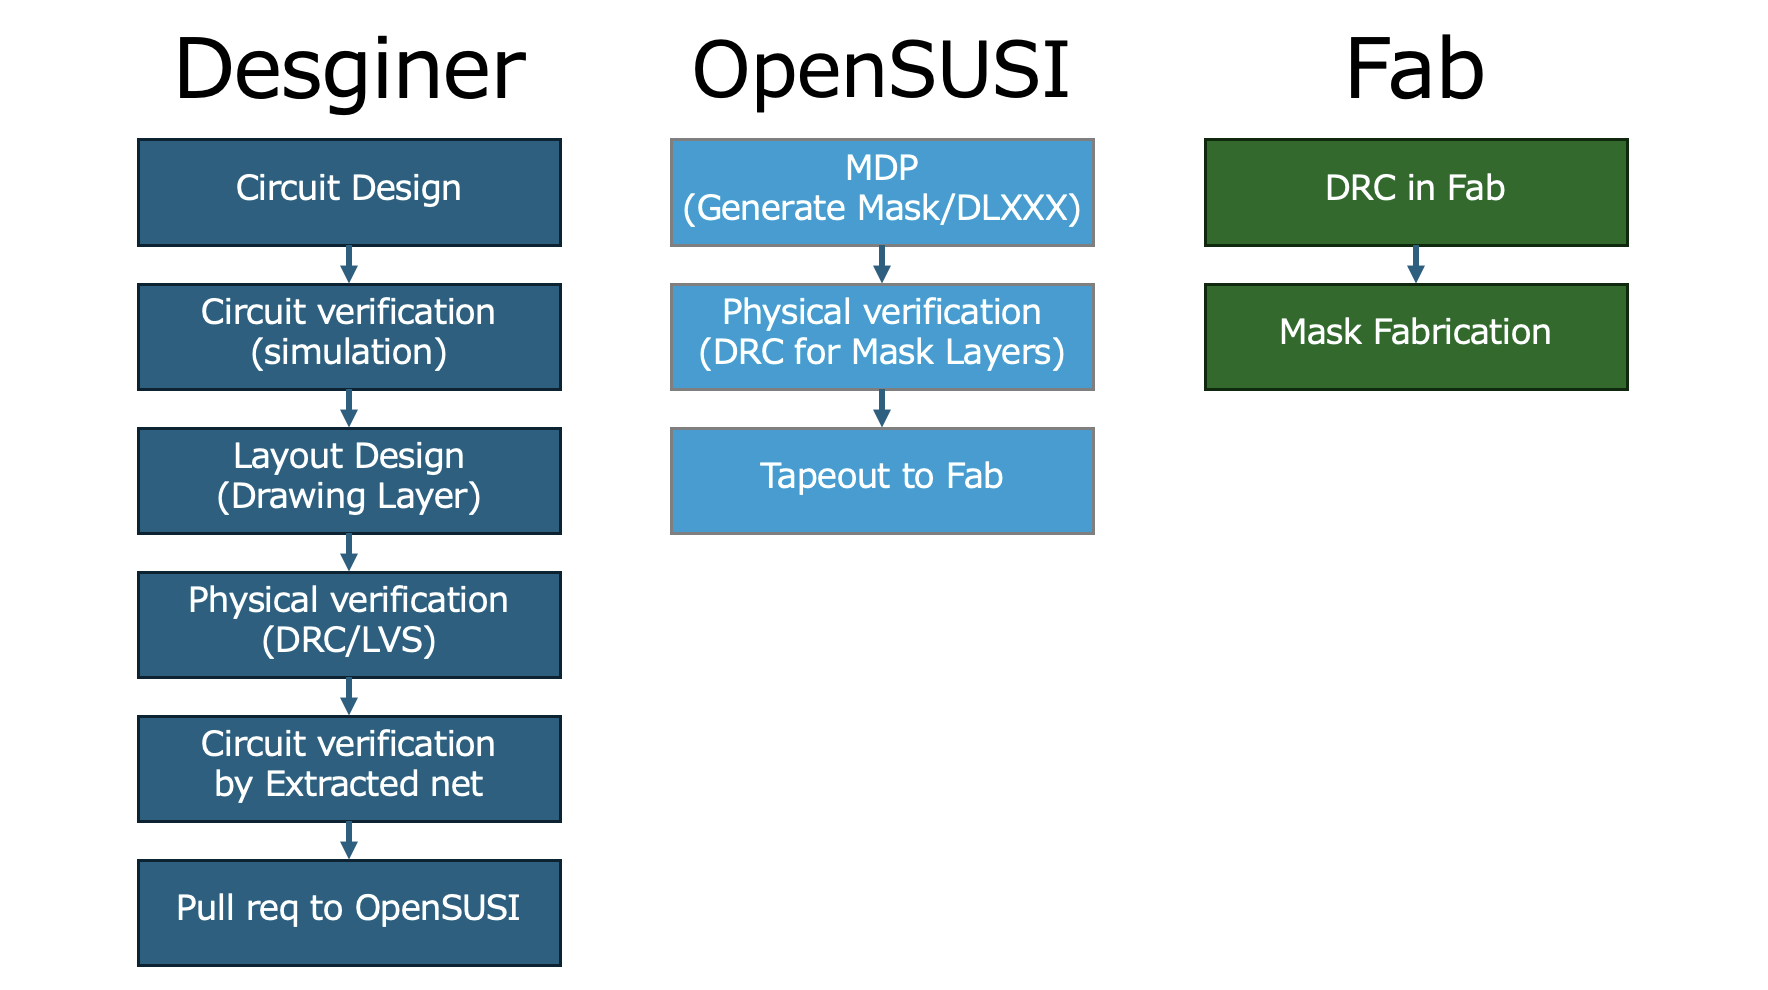
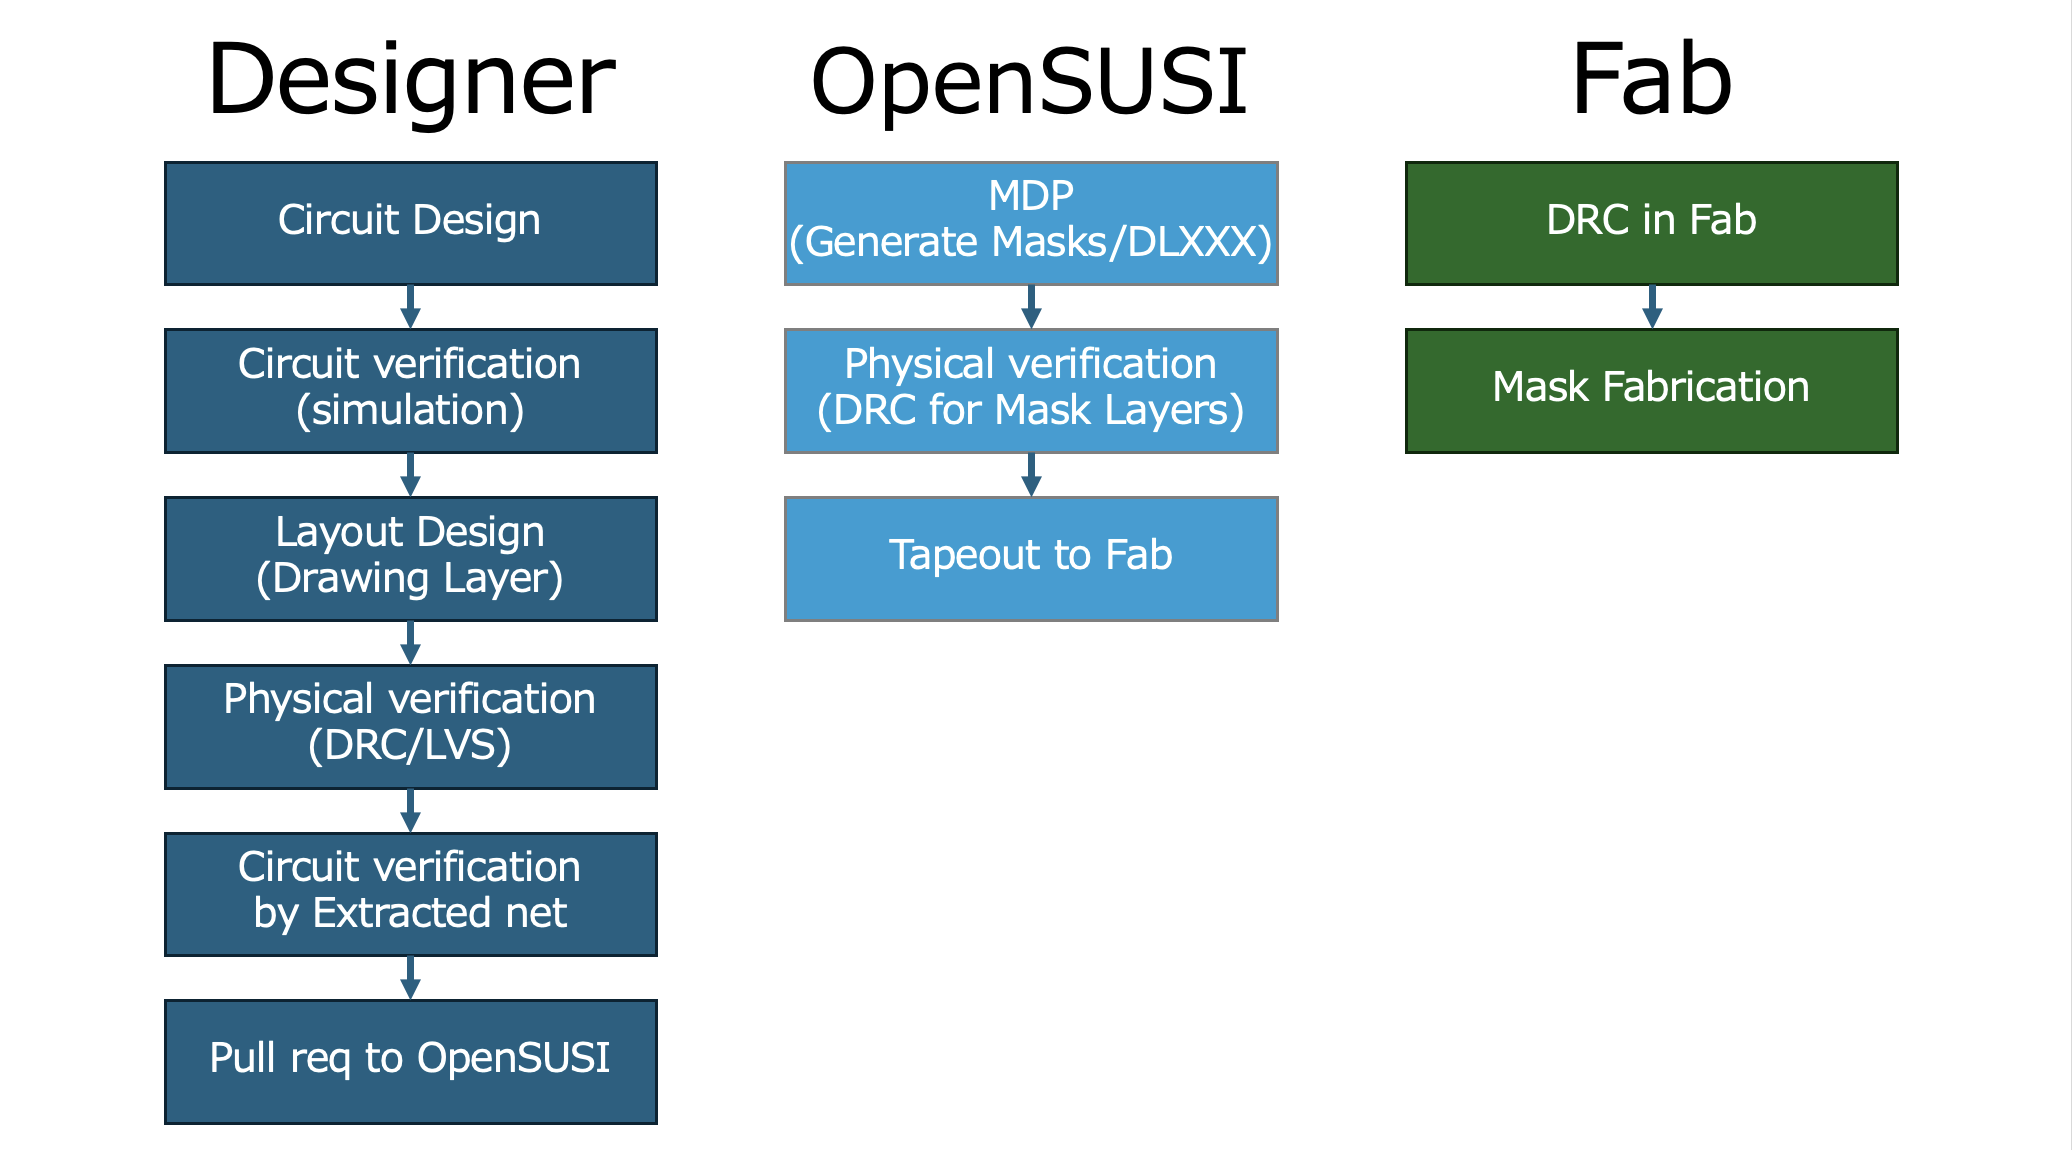
20251219: Python script for IP62_tp_TR-1um conversion

diff --git a/Tools/IP62_to_TR-1um.py b/Tools/IP62_to_TR-1um.py
@@ -1,0 +1,179 @@
+#! /usr/bin/env python3
+# ----- ------ ----- ----- ------ ----- ----- ------ ----- 
+# TR-1um DRC v0.001 
+# Original version was made by jun1okamura from TokaiRika's document 
+# LICENSE: Apache License Version 2.0, January 2004,
+#          http://www.apache.org/licenses/
+# ----- ------ ----- 
+#
+#  IP62_to_TR-1um.py INPUT_IP62_GDS OUTPUT_TR-1um_GDS 
+#
+import sys
+import klayout.db as db
+#
+ly    = db.Layout()  
+args  = sys.argv
+#
+ifile = args[1]
+ofile = args[2]
+#
+ly.read(ifile)
+# ----- ------ ----- ----- ------ ----- ----- ------ ----- 
+# IP62
+PSUB = ly.layer(140, 0)     
+NW   = ly.layer( 36, 0)     
+HVNW = ly.layer(141, 0)     
+L    = ly.layer(  3, 0)     
+NF   = ly.layer( 25, 0)     # L1
+PF   = ly.layer( 26, 0)     # L2
+HPBE = ly.layer(144, 0)     # L3
+HNBE = ly.layer(145, 0)     # L4
+PBE  = ly.layer(146, 0)     # L3
+NBE  = ly.layer(147, 0)     # L4
+SG   = ly.layer(  8, 0)     
+PM   = ly.layer( 35, 0)     # L5
+NM   = ly.layer(  7, 0)     # L6
+PSD  = ly.layer(  9, 0)     # L7
+NSD  = ly.layer( 28, 0)     # L8
+R    = ly.layer( 12, 0)     # L9
+CL   = ly.layer(143, 0)     # LA
+HPM  = ly.layer( 33, 0)     
+# ----- ------ ----- ----- ------ ----- ----- ------ ----- 
+# DLXXX 
+DPBG  = ly.layer(116, 0)
+DNBG  = ly.layer(117, 0)
+DRBG  = ly.layer(118, 0)
+DCBG  = ly.layer(119, 0)
+DLWLMP= ly.layer(150, 0)
+DLWLMN= ly.layer(151, 0)
+DLWLRR= ly.layer(154, 0)
+DLMP  = ly.layer(157, 0)
+DLMN  = ly.layer(158, 0)
+DLRR  = ly.layer(162, 0)
+DLRS  = ly.layer(165, 0)
+DLCSIO= ly.layer(166, 0)
+DLDP  = ly.layer(167, 0)
+DLDN  = ly.layer(168, 0)
+DLMPE = ly.layer(169, 0)
+DLMNE = ly.layer(170, 0)
+DLBGMP= ly.layer(177, 0)
+DLBGMN= ly.layer(178, 0)
+DLBGRR= ly.layer(182, 0)
+# ----- ------ ----- ----- ------ ----- ----- ------ ----- 
+# Drawing Layers
+#
+AP    = ly.layer(  3, 1)
+AN    = ly.layer(  3, 2)
+AR    = ly.layer(  3, 3)
+AC    = ly.layer(  3, 4)
+#
+PG    = ly.layer(  8, 1)
+PR    = ly.layer(  8, 2)
+#
+# ----- ------ ----- ----- ------ ----- ----- ------ ----- 
+def convert_drawing( cell : db.Cell ) :
+    #
+    NWCS = (db.Region(cell.shapes(PSUB)).merged() & 
+            db.Region(cell.shapes(NW  )).merged().interacting(db.Region(cell.shapes(CL)).merged()))
+    NWMP = (db.Region(cell.shapes(PSUB)).merged() & 
+            db.Region(cell.shapes(NW  )).merged()).not_interacting(db.Region(cell.shapes(CL)).merged())
+    NWRR = (db.Region(cell.shapes(PSUB)).merged() & db.Region(cell.shapes(HVNW)).merged())
+    PWMN = (db.Region(cell.bbox()) - db.Region(cell.shapes(PSUB)).merged())
+    #
+    LG   = (db.Region(cell.shapes(L  )).merged()).interacting(db.Region(cell.shapes(SG)).merged())
+    LX   = (db.Region(cell.shapes(L  )).merged()).not_interacting(db.Region(cell.shapes(SG)).merged())
+    # 
+    P1   = (db.Region(cell.shapes(SG )).merged() - db.Region(cell.shapes(DLRS)).merged())
+    P2   = (db.Region(cell.shapes(SG )).merged() & db.Region(cell.shapes(DLRS)).merged())
+    #
+    L1   = (db.Region(cell.shapes(NF )).merged())
+    L2   = (db.Region(cell.shapes(PF )).merged())
+    L3   = (db.Region(cell.shapes(NBE)).merged())
+    L4   = (db.Region(cell.shapes(PBE)).merged())
+    L5   = (db.Region(cell.shapes(PM )).merged())
+    L6   = (db.Region(cell.shapes(NM )).merged())
+    L7   = (db.Region(cell.shapes(PSD)).merged())
+    L8   = (db.Region(cell.shapes(NSD)).merged())
+    L9   = (db.Region(cell.shapes(R  )).merged())
+    LA   = (db.Region(cell.shapes(CL )).merged())
+    #
+    D1   = (db.Region(cell.shapes(DLMP  )).merged())
+    D2   = (db.Region(cell.shapes(DLMN  )).merged())
+    D3   = (db.Region(cell.shapes(DLMPE )).merged())
+    D4   = (db.Region(cell.shapes(DLMNE )).merged())
+    D5   = (db.Region(cell.shapes(DLDP  )).merged())
+    D6   = (db.Region(cell.shapes(DLDN  )).merged())
+    D7   = (db.Region(cell.shapes(DLBGMP)).merged())
+    D8   = (db.Region(cell.shapes(DLBGMN)).merged())
+    D9   = (db.Region(cell.shapes(DLRR  )).merged())
+    DA   = (db.Region(cell.shapes(DLBGRR)).merged())
+    DB   = (db.Region(cell.shapes(DLCSIO)).merged())
+    #
+    AAMP = (LG & ( NWMP & L1 & L2 - L3 & L4 - L5 & L6 - L7 & L8 - L9 - LA)) #| (LG & D1 )
+    AAMN = (LG & ( PWMN - L1 - L2 & L3 - L4 & L5 - L6 & L7 - L8 - L9 - LA)) #| (LG & D2 )
+    AAPE = (LG & ( NWMP & L1 & L2 - L3 & L4 - L5 & L6 - L7 & L8 - L9 - LA)) #| (LG & D3 )
+    AANE = (LG & ( PWMN - L1 - L2 & L3 - L4 & L5 & L6 & L7 - L8 - L9 - LA)) #| (LG & D4 )
+    #
+    AADP = (LX & ( NWMP & L1 & L2 - L3 - L4 & L5 & L6 - L7 & L8 - L9 - LA)) #| (LX & D5 )  
+    AADN = (LX & ( PWMN - L1 - L2 - L3 - L4 & L5 & L6 & L7 - L8 - L9 - LA)) #| (LX & D6 )  
+    AAGP = (LX & ( NWMP & L1 & L2 - L3 - L4 & L5 & L6 & L7 - L8 - L9 - LA)) #| (LX & D7 )
+    AAGN = (LX & ( PWMN - L1 - L2 - L3 - L4 & L5 & L6 - L7 & L8 - L9 - LA)) #| (LX & D8 )
+    AARR = (LX & ( NWRR & L1 - L2 - L3 - L4 & L5 & L6      & L8 & L9 - LA)) | (LX & D9 )    
+    AAGR = (LX & ( NWRR & L1 - L2 - L3 - L4 & L5 & L6 & L7 - L8 - L9 - LA)) | (LX & DA )
+    AACC = (LG & ( NWCS & L1 - L2 - L3 - L4 & L5 & L6 & L7 & L8 - L9 & LA)) | (LG & NWCS & DB )
+    AAGC = (LX & ( NWCS & L1 - L2 - L3 - L4 & L5 & L6 & L7 - L8 - L9 - LA)) | (LX & NWCS & D8 )
+    # ----- ----- ----- -----  
+    # Create Drawing
+    # 
+    for shape in (AAMP + AAPE + AAGN + AADP) :
+       cell.shapes(AP).insert(db.Polygon(shape))
+    #
+    for shape in (AAMN + AANE + AAGP + AADN + AAGR + AAGC) :
+       cell.shapes(AN).insert(db.Polygon(shape))
+    #                
+    for shape in (AARR) :
+       cell.shapes(AR).insert(db.Polygon(shape))
+    #                
+    for shape in (AACC) :
+       cell.shapes(AC).insert(db.Polygon(shape))
+    #
+    for shape in (P1) :
+       cell.shapes(PG).insert(db.Polygon(shape))
+    #
+    for shape in (P2) :
+       cell.shapes(PR).insert(db.Polygon(shape))
+    #
+    # ----- ----- ----- -----  
+    # Delete IMPLANT Layers
+    #
+    for layer in ( NW, HVNW, L, NF, PF, HPBE, HNBE, PBE, NBE, PM, NM, SG, PSD, NSD, R, CL, HPM ) :
+        cell.shapes(layer).clear()
+    #
+    # ----- ----- ----- -----  
+    # Delete DLXXX Layers
+    #
+    for layer in ( DPBG, DNBG, DRBG, DCBG, DLWLMP, DLWLMN, DLWLRR, DLMP, DLMN,
+                    DLRR, DLRS, DLCSIO, DLDP, DLDN, DLMPE, DLMNE, DLBGMP, DLBGMN, DLBGRR ) :
+        cell.shapes(layer).clear()
+    #
+
+# ----- ------ ----- ----- ------ ----- ----- ------ ----- 
+# Main routine
+#
+if ly.top_cells() != None :
+    for idx in ly.each_cell_bottom_up() :
+        cl = ly.cell(idx)
+        cell_name = cl.name.split('_')
+        #
+        # Exclude Seal-Ring to delete IP62 Layers
+        #
+        if len(cell_name) > 3 :
+            if (cell_name[0] == "chip") & (cell_name[1] == "outline") & (cell_name[2] == "462") :
+                print("CELL(%2d):%-10s" % (idx, cl.name))
+        else :
+            convert_drawing(cl)
+    #    
+#           
+ly.write(ofile)
+#
+exit

diff --git a/libs.tech/klayout/python/cells/resistor.py b/libs.tech/klayout/python/cells/resistor.py
@@ -56,5 +56,6 @@ class res_d(pya.PCellDeclarationHelper):
 
     def produce_impl(self):
         #
-        draw_res( self.cell, l=self.l, w=self.w, layer=AR_layer)
+        draw_res( self.cell, l=self.l, w=self.w, layer=AR_layer, )
+        draw_rpo( self.cell, l=self.l, w=self.w, layer=PG_layer)
 

diff --git a/libs.tech/klayout/python/cells/rules_def.py b/libs.tech/klayout/python/cells/rules_def.py
@@ -89,6 +89,7 @@ DR['CO.PO'] = DRule(  1.0,  "CO-PO min in AA" )
 DR['CO.PG'] = DRule(  0.8,  "ENC min to PG  " )
 DR['CO.PR'] = DRule(  0.8,  "ENC min to PR  " )
 DR['CO.AR'] = DRule(  0.8,  "ENC min to AR  " )
+DR['CO.AT'] = DRule(  1.5,  "ENC min to ART " )
 DR['CO.M1'] = DRule(  0.8,  "ENC min to M1  " )
 # PO to AA related
 DR['PO.W1'] = DRule(  1.0,  "Width min      " )

diff --git a/libs.tech/klayout/python/cells/util.py b/libs.tech/klayout/python/cells/util.py
@@ -16,6 +16,7 @@ co_enc_diff = DR['CO.AP'].value
 co_sep_pg   = DR['CO.PO'].value
 co_enc_pg   = DR['CO.PG'].value
 co_enc_pr   = DR['CO.PR'].value
+co_enc_difft= DR['CO.AT'].value
 co_enc_m1   = DR['CO.M1'].value
 po_end      = DR['PO.EC'].value
 po_space    = DR['PO.S2'].value